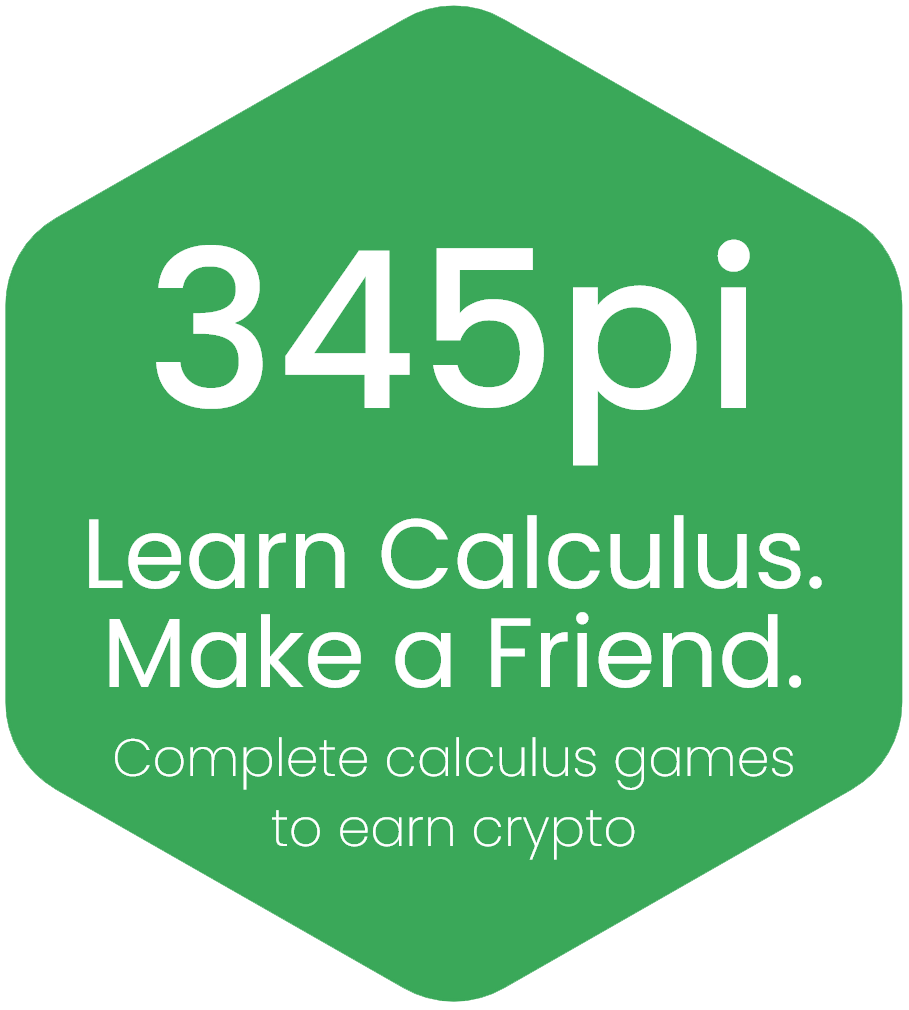
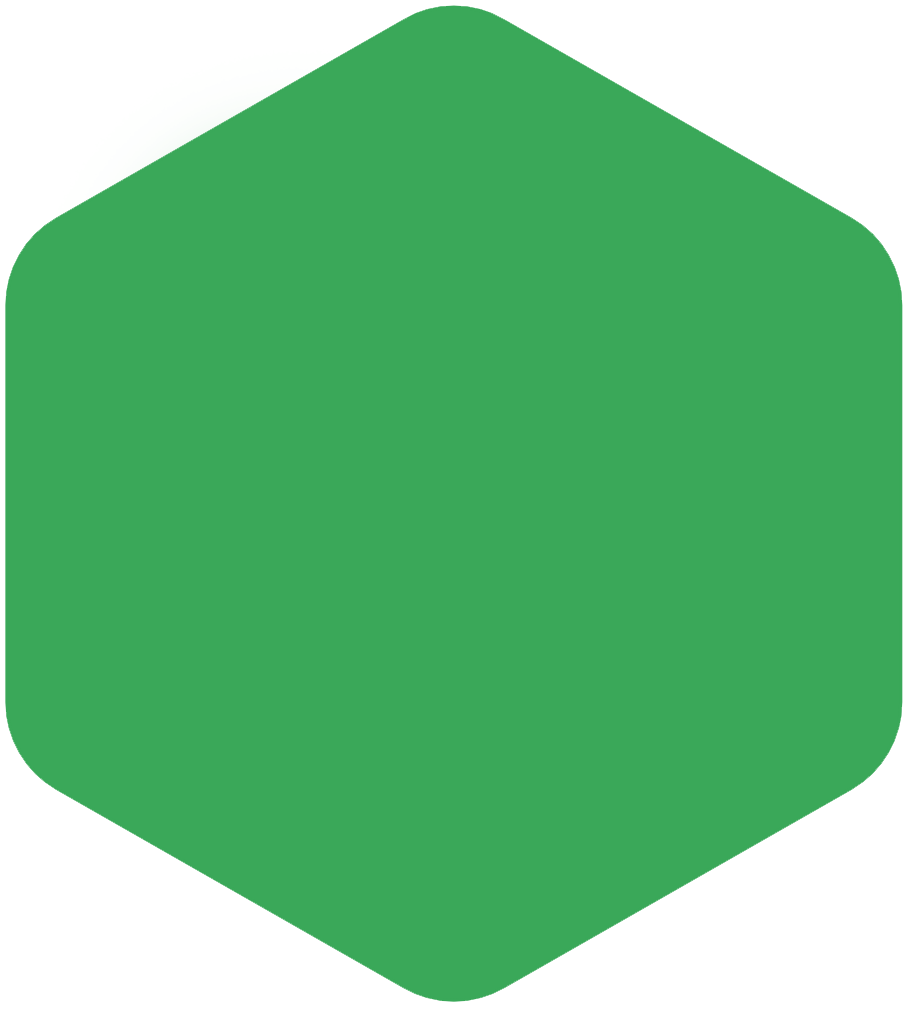
Update hexagon image

diff --git a/components/hexagon.tsx b/components/hexagon.tsx
@@ -6,23 +6,7 @@ interface Props {
 const Hexagon: React.FC<Props> = ({ color, children }) => {
 	return (
 		<div className="h-60">
-			<svg className="mx-auto" viewBox="0 0 50 50">
-				<polygon
-					fill={color}
-					points="50 1 95 25 95 75 50 99 5 75 5 25"
-					onClick={() => console.log("You have clicked the polygon.")}
-					className="cursor-pointer"
-				>
-					<text fill="black">test</text>
-					<foreignObject>
-						<div>
-							Lorem ipsum dolor sit amet, consectetur adipiscing elit. Sed
-							mollis mollis mi ut ultricies. Nullam magna ipsum, porta vel dui
-							convallis, rutrum imperdiet eros. Aliquam erat volutpat.
-						</div>
-					</foreignObject>
-				</polygon>
-			</svg>
+			<svg className="mx-auto" viewBox="0 0 50 50"></svg>
 		</div>
 	);
 };

diff --git a/components/navbar.tsx b/components/navbar.tsx
@@ -36,17 +36,17 @@ export default function Navbar() {
 	};
 
 	return (
-		<div className="h-28 flex flex-row w-[95%] items-center mb-5">
+		<div className="flex flex-row w-[95%] items-center mb-5">
 			<Link href="/">
 				{theme === LIGHT_THEME ? (
 					<Image
-						className="scale-90 -translate-x-4 cursor-pointer"
+						className="scale-75 -translate-x-8 cursor-pointer"
 						alt="345pi Logo"
 						src={pi345_logo}
 					/>
 				) : (
 					<Image
-						className="scale-90 -translate-x-4 cursor-pointer"
+						className="scale-75 -translate-x-8 cursor-pointer"
 						alt="345pi Logo"
 						src={pi345_logo_dark}
 					/>

diff --git a/pages/index.tsx b/pages/index.tsx
@@ -22,7 +22,7 @@ const Home: NextPage = () => {
 					<Image
 						alt="Hexagon Background Image"
 						src={hexagon}
-						height={500}
+						height={550}
 						width={500}
 					/>
 				</div>
